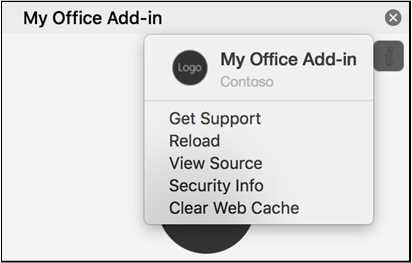
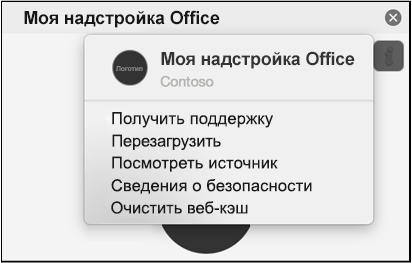
commit translated contents

Changed region(s): [[0.1748, 0.1825, 0.7573, 0.8821], [0.2621, 0.1825, 0.8738, 0.3346], [0.0583, 0.0304, 0.5534, 0.1521]]

diff --git a/docs/reference/overview/word-add-ins-reference-overview.md b/docs/reference/overview/word-add-ins-reference-overview.md
@@ -1,138 +1,46 @@
 ---
 title: Обзор API JavaScript для Word
 description: ''
-ms.date: 06/10/2019
+ms.date: 07/05/2019
 ms.prod: word
 localization_priority: Priority
-ms.openlocfilehash: 92b66b98776c1ad6b2d824af8bf13b01f2807384
-ms.sourcegitcommit: 3f84b2caa73d7fe1eb0d15e32ea4dec459e2ff53
+ms.openlocfilehash: fbc9e8293642d1ab8edf32d568a5dab7ef77a8f0
+ms.sourcegitcommit: c3673cc693fa7070e1b397922bd735ba3f9342f3
 ms.translationtype: HT
 ms.contentlocale: ru-RU
-ms.lasthandoff: 06/12/2019
-ms.locfileid: "34910205"
+ms.lasthandoff: 07/05/2019
+ms.locfileid: "35575627"
 ---
 # <a name="word-javascript-api-overview"></a>Обзор API JavaScript для Word
 
-Word предоставляет большой набор API. Вы можете использовать эти API для создания надстроек, взаимодействующих с контентом и метаданными документов. С помощью этих API вы сможете создавать привлекательные приложения, интегрируемые с Word и расширяющие возможности этой программы. Вы можете импортировать и экспортировать контент, собирать новые документы на основе различных источников данных, выполнять интеграцию с рабочими процессами документов и создавать пользовательские решения для работы с документами.
+Надстройка Word взаимодействует с объектами в Word с помощью API JavaScript для Office, включающего две объектных модели JavaScript.
 
-Для взаимодействия с объектами и метаданными в документе Word вы можете использовать два указанных ниже API JavaScript.
+* **API JavaScript для Word**. Появившийся в Office 2016 [API JavaScript для Word](/javascript/api/word) предоставляет строго типизированные объекты, с помощью которых можно получать доступ к объектам и метаданным в документе Word. 
 
-- API JavaScript для Word: впервые появился в Office 2016.
-- [API JavaScript для Office](../javascript-api-for-office.md) (Office.js): впервые появился в Office 2013.
+* **Общие API**. Появившиеся в Office 2013 [общие API](/javascript/api/office) можно использовать для доступа к таким компонентам, как пользовательский интерфейс, диалоговые окна и параметры клиентов, общие для нескольких типов приложений Office.
 
-## <a name="word-javascript-api"></a>API JavaScript для Word
+В этом разделе рассматривается API JavaScript для Word, используемый для разработки большинства функций в надстройках и предназначенный для Word в Интернете, Word 2016 или более поздних версий. Сведения об общем API см. в статье [API JavaScript для Office](../javascript-api-for-office.md). 
 
-API JavaScript для Word загружается с помощью файла Office.js. Этот API изменяет способ взаимодействия с объектами, например с документами и абзацами. Вместо набора отдельных асинхронных API для получения и обновления каждого из этих объектов новый API JavaScript для Word предоставляет прокси-объекты JavaScript, которые соответствуют реальным объектам, выполняемым в Word. Вы можете напрямую взаимодействовать с этими прокси-объектами, синхронно считывая и записывая их свойства, а также вызывая синхронные методы для операций над ними. Эти взаимодействия с прокси-объектами не сразу реализуются в выполняющихся сценариях. Метод **context.sync** синхронизирует состояние запущенного JavaScript и реальных объектов в Office, выполняя поставленные в очередь инструкции и получая свойства загруженных объектов Word для их использования в сценарии.
+## <a name="learn-programming-concepts"></a>Сведения о концепциях, связанных с программированием
 
-## <a name="javascript-api-for-office"></a>API JavaScript для Office
+Сведения о важных концепциях программирования см. в статье [Основные концепции программирования с помощью API JavaScript для Word](../../word/word-add-ins-core-concepts.md).
+ 
+## <a name="learn-about-api-capabilities"></a>Сведения о возможностях API
 
-Файл Office.js можно получить из указанных ниже расположений.
+Используйте другие статьи в этом разделе, чтобы узнать, как [получить весь документ из надстройки](../../word/get-the-whole-document-from-an-add-in-for-word.md), [воспользоваться параметрами поиска, чтобы найти текст в надстройке Word,](../../word/search-option-guidance.md) и т. д. Полный список доступных статей см. в оглавлении.
 
-- https://appsforoffice.microsoft.com/lib/1/hosted/office.js. Используйте этот ресурс для рабочих надстроек.
-- https://appsforoffice.microsoft.com/lib/beta/hosted/office.js. Используйте этот ресурс при испытаниях предварительных версий функций.
+Чтобы получить практический опыт доступа к объектам в Word с помощью API JavaScript для Word, выполните инструкции из [руководства по надстройкам Word](../../tutorials/word-tutorial.md). 
 
-Если вы используете [Visual Studio](https://www.visualstudio.com/products/free-developer-offers-vs), то, чтобы получить шаблоны проектов, включающие файл Office.js, вы можете скачать [Office Developer Tools](https://www.visualstudio.com/features/office-tools-vs.aspx).  Кроме того, [чтобы получить файл Office.js, вы можете воспользоваться NuGet](https://www.nuget.org/packages/Microsoft.Office.js/).
+Дополнительные сведения об объектной модели API JavaScript для Word см. в [справочной документации по API JavaScript для Word](/javascript/api/word).
 
-Если вы используете TypeScript и у вас есть npm, то вы можете получить определения TypeScript, выполнив в интерфейсе командной строки следующую команду: `typings install office-js --ambient`.
+## <a name="try-out-code-samples-in-script-lab"></a>Опробуйте примеры кода в Script Lab
 
-## <a name="running-word-add-ins"></a>Запуск надстроек Word
-
-Чтобы запустить надстройку, воспользуйтесь обработчиком событий Office.initialize. Дополнительные сведения об инициализации надстроек см. в статье [Общие сведения об API](/office/dev/add-ins/develop/understanding-the-javascript-api-for-office).
-
-Надстройки для Word 2016 или более поздней версии выполняются передачей функции в метод **Word.run()**. Функции, передаваемой в метод **run**, обязательно должен быть присвоен контекстный аргумент. Этот [контекстный объект](/javascript/api/word/word.requestcontext) отличается от контекстного объекта, получаемого из объекта Office, но он также используется для взаимодействия со средой выполнения Word. Контекстный объект предоставляет доступ к объектной модели API JavaScript для Word. В приведенном ниже примере показано, как инициализировать и выполнить надстройку Word с помощью метода **Word.run()**.
-
-```js
-(function () {
-    "use strict";
-
-    // The initialize event handler must be run on each page to initialize Office JS.
-    // You can add optional custom initialization code that will run after OfficeJS
-    // has initialized.
-    Office.initialize = function (reason) {
-        // The reason object tells how the add-in was initialized. The values can be:
-        // inserted - the add-in was inserted to an open document.
-        // documentOpened - the add-in was already inserted in to the document and the document was opened.
-
-        // Checks for the DOM to load using the jQuery ready function.
-        $(document).ready(function () {
-            // Set your optional initialization code.
-            // You can also load saved settings from the Office object.
-        });
-    };
-
-    // Run a batch operation against the Word JavaScript API object model.
-    // Use the context argument to get access to the Word document.
-    Word.run(function (context) {
-
-        // Create a proxy object for the document.
-        var thisDocument = context.document;
-        // ...
-    })
-})();
-```
-
-### <a name="synchronizing-word-documents-with-word-javascript-api-proxy-objects"></a>Синхронизация документов Word с помощью прокси-объектов API JavaScript для Word
-
-Объектная модель API JavaScript для Word нестрого связана с объектами в Word. Объекты API JavaScript для Word представляют собой прокси-объекты для объектов в документе Word. Действия, выполняемые над прокси-объектами, не будут реализованы в Word, пока не будет синхронизировано состояние документа. И наоборот, состояние документа Word не будет реализовано в прокси-объектах, пока оно не будет синхронизировано. Чтобы синхронизировать состояние документа, выполните метод **context.sync()**. В примере ниже показано, как создать прокси-объект основного текста и помещенную в очередь команду для загрузки свойства текста в прокси-объекте основного текста и как использовать метод **context.sync()** для синхронизации основного текста документа Word с прокси-объектом основного текста.
-
-```js
-// Run a batch operation against the Word object model.
-Word.run(function (context) {
-
-    // Create a proxy object for the document body.
-    // The body object hasn't been set with any property values.
-    var body = context.document.body;
-
-    // Queue a command to load the text property for the proxy document body object.
-    context.load(body, 'text');
-
-    // Synchronize the document state by executing the queued commands,
-    // and return a promise to indicate task completion.
-    return context.sync().then(function () {
-        console.log("Body contents: " + body.text);
-    });
-})
-```
-
-### <a name="executing-a-batch-of-commands"></a>Выполнение пакета команд
-
-У прокси-объектов Word есть методы для доступа к объектной модели и ее обновления. Эти методы выполняются последовательно в том порядке, в котором они были поставлены в очередь в пакете. При вызове метода context.sync() выполняются все команды, помещенные в очередь в пакете.
-
-В примере ниже показано, как работает очередь команд. При вызове метода **context.sync()** в Word выполняется команда загрузки основного текста. Затем выполняется команда вставки текста в основной текст в Word. Результаты выполнения команд возвращаются в прокси-объект основного текста. Значение свойства **body.text** в API JavaScript для Word представляет собой значение основного текста документа Word <u>перед тем, как</u> текст был вставлен в документ Word.
-
-```js
-// Run a batch operation against the Word JavaScript API.
-Word.run(function (context) {
-
-    // Create a proxy object for the document body.
-    var body = context.document.body;
-
-    // Queue a command to load the text property of the proxy body object.
-    context.load(body, 'text');
-
-    // Queue a command to insert text into the end of the Word document body.
-    body.insertText('This is text inserted after loading the body.text property',
-                    Word.InsertLocation.end);
-
-    // Synchronize the document state by executing the queued commands,
-    // and return a promise to indicate task completion.
-    return context.sync().then(function () {
-        console.log("Body contents: " + body.text);
-    });
-})
-```
-
-## <a name="word-javascript-api-requirement-sets"></a>Наборы обязательных элементов API JavaScript для Word
-
-Наборы требований — это именованные группы элементов API. Надстройки Office с помощью наборов обязательных элементов, указанных в манифесте, или проверки в среде выполнения определяют, поддерживает ли ведущее приложение Office необходимые API. Подробнее о наборах обязательных элементов API JavaScript для Word см. в статье [Наборы требований API JavaScript для Word](../requirement-sets/word-api-requirement-sets.md).
-
-## <a name="word-javascript-api-reference"></a>Справочные материалы по API JavaScript для Word
-
-Подробнее об API JavaScript для Word см. в [справочной документации по API JavaScript для Word](/javascript/api/word).
+Используйте [Script Lab](../../overview/explore-with-script-lab.md), чтобы быстро начать работу с коллекцией встроенных примеров, демонстрирующих выполнение задач с помощью API. Вы можете выполнять примеры в Script Lab, чтобы сразу увидеть результат в области задач или документе, изучать примеры, чтобы понять принципы действия API, и даже использовать примеры для создания собственных надстроек.
 
 ## <a name="see-also"></a>См. также
 
-- [Обзор надстроек Word](/office/dev/add-ins/word/word-add-ins-programming-overview)
-- [Обзор платформы надстроек Office](/office/dev/add-ins/overview/office-add-ins)
-- [Примеры надстроек Word на сайте GitHub](https://github.com/OfficeDev?utf8=%E2%9C%93&q=Word)
+- [Документация по надстройкам Word](../../word/index.md)
+- [Обзор надстроек Word](../../word/word-add-ins-programming-overview.md)
+- [Справочник по API JavaScript для Word](/javascript/api/word)
+- [Доступность ведущих приложений и платформ для надстроек Office](../../overview/office-add-in-availability.md)
 - [Открытые спецификации API](../openspec/openspec.md)

diff --git a/docs/reference/overview/excel-add-ins-reference-overview.md b/docs/reference/overview/excel-add-ins-reference-overview.md
@@ -1,64 +1,50 @@
 ---
 title: Обзор API JavaScript для Excel
 description: ''
-ms.date: 06/10/2019
+ms.date: 07/05/2019
 ms.prod: excel
 localization_priority: Priority
-ms.openlocfilehash: aa9574a93252c0011b211c39e37cc013beb64432
-ms.sourcegitcommit: 3f84b2caa73d7fe1eb0d15e32ea4dec459e2ff53
+ms.openlocfilehash: e6064bf7e7dce6931079fc2d3eb262533da7edf3
+ms.sourcegitcommit: c3673cc693fa7070e1b397922bd735ba3f9342f3
 ms.translationtype: HT
 ms.contentlocale: ru-RU
-ms.lasthandoff: 06/12/2019
-ms.locfileid: "34910149"
+ms.lasthandoff: 07/05/2019
+ms.locfileid: "35575634"
 ---
 # <a name="excel-javascript-api-overview"></a>Обзор API JavaScript для Excel
 
-Вы можете использовать API JavaScript для Excel, чтобы создавать надстройки для Excel 2016 и более поздних версий. Ниже перечислены объекты Excel высокого уровня, доступные в API. Каждая ссылка на страницу объекта содержит описание свойств, событий и методов, доступных для объекта. Чтобы узнать больше, перейдите по соответствующим ссылкам в меню.
+Надстройка Excel взаимодействует с объектами в Excel с помощью API JavaScript для Office, включающего две объектных модели JavaScript:
 
-Для удобства ниже перечислены некоторые из основных объектов Excel.
+* **API JavaScript для Excel**. Появившийся в Office 2016 [API JavaScript для Excel](/javascript/api/excel) предоставляет строго типизированные объекты, с помощью которых можно получать доступ к листам, диапазонам, таблицам, диаграммам и другим объектам. 
 
-- [Workbook](/javascript/api/excel/excel.workbook) — объект верхнего уровня, содержащий связанные объекты книг, такие как листы, таблицы, диапазоны и т. д. Его также можно использовать для вывода списка связанных ссылок.
+* **Общие API**. Появившиеся в Office 2013 [общие API](/javascript/api/office) можно использовать для доступа к таким компонентам, как пользовательский интерфейс, диалоговые окна и параметры клиентов, общие для нескольких типов приложений Office.
 
-- [Worksheet](/javascript/api/excel/excel.worksheet). Представляет лист в книге.
-  - [WorksheetCollection](/javascript/api/excel/excel.worksheetcollection): коллекция объектов **Worksheet** в книге.
-  - [Worksheet Protection](/javascript/api/excel/excel.worksheetprotection): защита объекта **Worksheet**.
+В этом разделе рассматривается API JavaScript для Excel, используемый для разработки большинства функций в надстройках и предназначенный для Excel в Интернете, Excel 2016 или более поздних версий. Сведения об общем API см. в статье [API JavaScript для Office](../javascript-api-for-office.md). 
 
-- [Range](/javascript/api/excel/excel.range): ячейка, строка, столбец или группа ячеек, содержащая один или несколько смежных блоков ячеек.
-  - [ConditionalFormat](/javascript/api/excel/excel.conditionalformat): объект, определяющий правило и формат, которые применяются к диапазону при соблюдении условия правила.
-  - [DataValidation](/javascript/api/excel/excel.datavalidation): объект, ограничивающий вводимые пользователем данные диапазоном, в основе которого лежит ряд условий.
-  - [RangeSort](/javascript/api/excel/excel.rangesort): объект, управляющий операциями сортировки для диапазона.
+## <a name="learn-programming-concepts"></a>Сведения о концепциях, связанных с программированием
 
-- [Table](/javascript/api/excel/excel.table): коллекция упорядоченных ячеек для упрощения управления данными.
-  - [TableCollection](/javascript/api/excel/excel.tablecollection). Коллекция таблиц в книге или на листе.
-  - [TableColumnCollection](/javascript/api/excel/excel.tablecolumncollection). Коллекция всех столбцов в таблице.
-  - [TableRowCollection](/javascript/api/excel/excel.tablerowcollection): коллекция всех строк в таблице.
-  - [TableSort](/javascript/api/excel/excel.tablesort): объект, управляющий операциями сортировки в таблице.
+Сведения о важных концепциях программирования см. в следующих статьях:
+ 
+- [Основные концепции программирования с помощью API JavaScript для Excel](../../excel/excel-add-ins-core-concepts.md)
 
-- [Chart](/javascript/api/excel/excel.chart): объект диаграммы на листе, который является визуальным представлением базовых данных.
-  - [ChartCollection](/javascript/api/excel/excel.chartcollection): коллекция диаграмм на листе.
+- [Дополнительные концепции программирования с помощью API JavaScript для Excel](../../excel/excel-add-ins-advanced-concepts.md)
 
-- [PivotTable](/javascript/api/excel/excel.pivottable): сводная таблица Excel, которая является иерархической группировкой и представлением данных.
-  - [PivotTableCollection](/javascript/api/excel/excel.pivottablecollection): коллекция сводных таблиц на листе.
+## <a name="learn-about-api-capabilities"></a>Сведения о возможностях API
 
-- [Filter](/javascript/api/excel/excel.filter): объект, управляющий фильтрацией столбца таблицы.
+Используйте другие статьи этого раздела, чтобы узнать о работе с [событиями](../../excel/excel-add-ins-events.md), [диаграммами](../../excel/excel-add-ins-charts.md), [диапазонами](../../excel/excel-add-ins-ranges.md), [таблицами](../../excel/excel-add-ins-tables.md), [листами](../../excel/excel-add-ins-worksheets.md) и т. д. Кроме того, в этом разделе содержится руководство по концепциям API JavaScript для Excel, таким как [совместное редактирование в надстройках Excel](../../excel/co-authoring-in-excel-add-ins.md), [проверка данных](../../excel/excel-add-ins-data-validation.md), [обработка ошибок](../../excel/excel-add-ins-error-handling.md) и [оптимизация производительности](../../excel/performance.md). Полный список доступных статей см. в оглавлении.
 
-- [NamedItem](/javascript/api/excel/excel.nameditem): определенное имя для диапазона ячеек или значения.
-  - [NamedItemCollection](/javascript/api/excel/excel.nameditemcollection). Коллекция объектов **NamedItem** в книге.
+Чтобы получить практический опыт доступа к объектам в Excel с помощью API JavaScript для Excel, выполните инструкции из [руководства по надстройкам Excel](../../tutorials/excel-tutorial.md). 
 
-- [Binding](/javascript/api/excel/excel.binding): абстрактный класс, представляющий привязку к разделу книги.
-  - [BindingCollection](/javascript/api/excel/excel.bindingcollection): коллекция объектов **Binding** в книге.
+Дополнительные сведения об объектной модели API JavaScript для Excel см. в [справочной документации по API JavaScript для Excel](/javascript/api/excel).
 
-## <a name="excel-javascript-api-requirement-sets"></a>Наборы обязательных элементов API JavaScript для Excel
+## <a name="try-out-code-samples-in-script-lab"></a>Опробуйте примеры кода в Script Lab
 
-Наборы обязательных элементов — именованные группы элементов API. Надстройки Office с помощью наборов обязательных элементов, указанных в манифесте, или проверки в среде выполнения определяют, поддерживает ли ведущее приложение Office необходимые API. Дополнительны сведения о наборах обязательных элементов API JavaScript для Excel см. в статье [Наборы требований API JavaScript для Excel](../requirement-sets/excel-api-requirement-sets.md).
-
-## <a name="excel-javascript-api-reference"></a>Справочные материалы по API JavaScript для Excel
-
-Дополнительные сведения об API JavaScript для Excel см. в [справочной документации по API JavaScript для Excel](/javascript/api/excel).
+Используйте [Script Lab](../../overview/explore-with-script-lab.md), чтобы быстро начать работу с коллекцией встроенных примеров, демонстрирующих выполнение задач с помощью API. Вы можете выполнять примеры в Script Lab, чтобы сразу увидеть результат в области задач или листе, изучать примеры, чтобы понять принципы действия API, и даже использовать примеры для создания собственных надстроек.
 
 ## <a name="see-also"></a>См. также
 
-- [Общие сведения о надстройках Excel](/office/dev/add-ins/excel/excel-add-ins-overview)
-- [Обзор платформы надстроек Office](/office/dev/add-ins/overview/office-add-ins)
-- [Примеры надстроек Excel на сайте GitHub](https://github.com/OfficeDev?utf8=%E2%9C%93&q=Excel)
+- [Документация по надстройкам Excel](../../excel/index.md)
+- [Общие сведения о надстройках Excel](../../excel/excel-add-ins-overview.md)
+- [Справочник по API JavaScript для Excel](/javascript/api/excel)
+- [Доступность ведущих приложений и платформ для надстроек Office](../../overview/office-add-in-availability.md)
 - [Открытые спецификации API](../openspec/openspec.md)

diff --git a/docs/testing/debug-add-ins-in-office-online.md b/docs/testing/debug-add-ins-in-office-online.md
@@ -3,12 +3,12 @@ title: Отладка надстроек в Office в Интернете
 description: Сведения о том, как тестировать и отлаживать надстройки в Office в Интернете.
 ms.date: 06/20/2019
 localization_priority: Priority
-ms.openlocfilehash: c8c67be0fe35d6aa4ebe7771fb261101d58d1c3d
-ms.sourcegitcommit: 382e2735a1295da914f2bfc38883e518070cec61
+ms.openlocfilehash: ebc1296c0d6f13d5327f666e72907e016fbe8c6e
+ms.sourcegitcommit: c3673cc693fa7070e1b397922bd735ba3f9342f3
 ms.translationtype: HT
 ms.contentlocale: ru-RU
-ms.lasthandoff: 06/21/2019
-ms.locfileid: "35128407"
+ms.lasthandoff: 07/05/2019
+ms.locfileid: "35575683"
 ---
 # <a name="debug-add-ins-in-office-on-the-web"></a>Отладка надстроек в Office в Интернете
 
@@ -56,7 +56,7 @@ ms.locfileid: "35128407"
 
 - Причиной некоторых отображаемых ошибок JavaScript может быть Office в Интернете.
 
-- В браузере может появиться сообщение об ошибке, связанной с недопустимым сертификатом, которое необходимо обойти. Этот процесс зависит от браузера, и пользовательские интерфейсы различных браузеров, предназначенные для его выполнения, периодически изменяются. Инструкции можно найти в справке браузера или выполнить поиск в Интернете. (Например, выполните поиск по запросу "Предупреждение Edge о недействительном сертификате".) В большинстве браузеров на странице предупреждения содержится ссылка, позволяющая перейти к странице надстройки. Например, в Microsoft Edge есть ссылка "Перейти на веб-страницу (не рекомендуется)". При этом, как правило, вам потребуется переходить по этой ссылке при каждой перезагрузке надстройки. Сведения о более долговечных способах обхода см. в предложенных разделах справки.
+- В браузере может появиться сообщение об ошибке, связанной с недопустимым сертификатом, которое необходимо обойти. Этот процесс зависит от браузера, и пользовательские интерфейсы различных браузеров, предназначенные для его выполнения, периодически изменяются. Инструкции можно найти в справке браузера или выполнить поиск в Интернете. (Например, выполните поиск по запросу "Предупреждение Microsoft Edge о недействительном сертификате".) В большинстве браузеров на странице предупреждения содержится ссылка, позволяющая перейти к странице надстройки. Например, в Microsoft Edge есть ссылка "Перейти на веб-страницу (не рекомендуется)". При этом, как правило, вам потребуется переходить по этой ссылке при каждой перезагрузке надстройки. Сведения о более долговечных способах обхода см. в предложенных разделах справки.
 
 - Если вы задаете точки останова в коде, Office в Интернете может вывести сообщение об ошибке, свидетельствующее о том, что не удается выполнить сохранение.
 

diff --git a/docs/testing/testing-and-troubleshooting.md b/docs/testing/testing-and-troubleshooting.md
@@ -29,14 +29,14 @@ ms.locfileid: "35454876"
 |Ошибка: объект не поддерживает свойство или метод 'defineProperty'|Убедитесь, что Internet Explorer не работает в режиме совместимости. Откройте меню "Сервис" >  **Параметры просмотра в режиме совместимости**.|
 |К сожалению, нам не удалось загрузить приложение, так как ваша версия браузера не поддерживается. Щелкните здесь, чтобы открыть список поддерживаемых версий браузера.|Убедитесь, что браузер поддерживает локальное хранилище HTML5, или сбросьте параметры Internet Explorer. Сведения о поддерживаемых браузерах см. в разделе [Требования к запуску надстроек для Office](../concepts/requirements-for-running-office-add-ins.md).|
 
-## <a name="when-installing-an-add-in-you-see-error-loading-add-in-in-the-status-bar"></a>При установке надстройки в строке состояния появляется сообщение "Ошибка при загрузке надстройки".
+## <a name="when-installing-an-add-in-you-see-error-loading-add-in-in-the-status-bar"></a>При установке надстройки в строке состояния появляется сообщение "Ошибка при загрузке надстройки"
 
 1. Закройте Office.
 2. Убедитесь, что манифест действителен.
 3. Перезапустите надстройку.
 4. Переустановите надстройку.
 
-Также можно отправить нам отзыв: при использовании Excel для Windows или Mac можно отправить отзыв группе расширяемости Office непосредственно из Excel. Для этого выберите **Файл** | **Отзыв** | **Отправить нахмуренный смайлик**. При отправке нахмуренного смайлика будут предоставлены необходимые журналы для понимания описываемой проблемы.
+Также можно отправить нам отзыв: при использовании Excel для Windows или Mac можно отправить отзыв группе расширяемости Office непосредственно из Excel. Для этого выберите **Файл** | **Отзывы и предложения** | **Отправить нахмуренный смайлик**. При отправке нахмуренного смайлика будут предоставлены необходимые журналы для понимания описываемой проблемы.
 
 ## <a name="outlook-add-in-doesnt-work-correctly"></a>Надстройка Outlook работает неправильно
 

diff --git a/docs/onenote/onenote-add-ins-programming-overview.md b/docs/onenote/onenote-add-ins-programming-overview.md
@@ -1,14 +1,14 @@
 ---
 title: Обзор создания кода с помощью API JavaScript для OneNote
 description: ''
-ms.date: 06/20/2019
+ms.date: 07/05/2019
 localization_priority: Priority
-ms.openlocfilehash: 852c68bc9edf370d0eef687fb4869b23d4f59fe4
-ms.sourcegitcommit: 382e2735a1295da914f2bfc38883e518070cec61
+ms.openlocfilehash: 223d7cdf6770d21a16272b9a8602201cec77d111
+ms.sourcegitcommit: c3673cc693fa7070e1b397922bd735ba3f9342f3
 ms.translationtype: HT
 ms.contentlocale: ru-RU
-ms.lasthandoff: 06/21/2019
-ms.locfileid: "35128638"
+ms.lasthandoff: 07/05/2019
+ms.locfileid: "35575662"
 ---
 # <a name="onenote-javascript-api-programming-overview"></a>Обзор создания кода с помощью API JavaScript для OneNote
 
@@ -87,6 +87,10 @@ function getPagesInSection() {
 
 Сведения о поддерживаемых объектах и операциях OneNote см. в [справочнике по API](/office/dev/add-ins/reference/overview/onenote-add-ins-javascript-reference).
 
+#### <a name="onenote-javascript-api-requirement-sets"></a>Наборы обязательных элементов API JavaScript для OneNote
+
+Наборы обязательных элементов — именованные группы элементов API. Надстройки Office с помощью наборов обязательных элементов, указанных в манифесте, или проверки в среде выполнения определяют, поддерживает ли ведущее приложение Office необходимые API. Дополнительные сведения о наборах обязательных элементов API JavaScript для OneNote см. в статье [Наборы обязательных элементов API JavaScript для OneNote](../reference/requirement-sets/onenote-api-requirement-sets.md).
+
 ### <a name="accessing-the-common-api-through-the-document-object"></a>Получение доступа к общему API с помощью объекта *Document*
 
 Для доступа к общему API, например к методам [getSelectedDataAsync](/javascript/api/office/office.document#getselecteddataasync-coerciontype--options--callback-) и [setSelectedDataAsync](/javascript/api/office/office.document#setselecteddataasync-data--options--callback-), используйте объект **Document**. 
@@ -131,6 +135,7 @@ function getSelectionFromPage() {
 
 ## <a name="see-also"></a>См. также
 
+- [Документация по надстройкам OneNote](index.md)
 - [Создание первой надстройки OneNote](../quickstarts/onenote-quickstart.md)
 - [Справочник по API JavaScript для OneNote](/office/dev/add-ins/reference/overview/onenote-add-ins-javascript-reference)
 - [Пример надстройки Rubric Grader](https://github.com/OfficeDev/OneNote-Add-in-Rubric-Grader)

diff --git a/docs/testing/sideload-office-add-ins-for-testing.md b/docs/testing/sideload-office-add-ins-for-testing.md
@@ -3,12 +3,12 @@ title: Загрузка неопубликованных надстроек Offi
 description: Тестирование неопубликованной надстройки Office в Office в Интернете путем ее загрузки
 ms.date: 06/20/2019
 localization_priority: Priority
-ms.openlocfilehash: e382e4de62df28584da2c827433af3102486e057
-ms.sourcegitcommit: 382e2735a1295da914f2bfc38883e518070cec61
+ms.openlocfilehash: 6a61a8bfb4860ac31803c40d8ecea1b550f79368
+ms.sourcegitcommit: c3673cc693fa7070e1b397922bd735ba3f9342f3
 ms.translationtype: HT
 ms.contentlocale: ru-RU
-ms.lasthandoff: 06/21/2019
-ms.locfileid: "35126948"
+ms.lasthandoff: 07/05/2019
+ms.locfileid: "35575606"
 ---
 # <a name="sideload-office-add-ins-in-office-on-the-web-for-testing"></a>Загрузка неопубликованных надстроек Office в Office в Интернете для тестирования
 
@@ -50,7 +50,7 @@ ms.locfileid: "35126948"
 >
 > - Введите **about:flags** в панели поиска Microsoft Edge, чтобы открыть раздел "Параметры разработчика".  Установите флажок **Разрешить замыкание на себя для localhost** и перезапустите Microsoft Edge.
 
->    ![Параметр "Разрешить замыкание на себя для localhost" в Edge с установленным флажком.](../images/allow-localhost-loopback.png)
+>    ![Параметр "Разрешить замыкание на себя для localhost" в Microsoft Edge с установленным флажком.](../images/allow-localhost-loopback.png)
 
 
 ## <a name="sideload-an-office-add-in-in-office-365"></a>Загрузка неопубликованной надстройки Office в Office 365

diff --git a/docs/testing/debug-add-ins-using-f12-developer-tools-on-windows-10.md b/docs/testing/debug-add-ins-using-f12-developer-tools-on-windows-10.md
@@ -42,7 +42,7 @@ ms.locfileid: "35454883"
 
 ## <a name="when-the-add-in-is-running-in-internet-explorer"></a>Если надстройка работает в Internet Explorer
 
-Если надстройка работает в браузере Internet Explorer, для тестирования надстройки можно использовать отладчик в составе средств разработчика F12 в Windows 10. Средства разработчика F12 можно запустить после запуска надстройки. Средства F12 отображаются в отдельном окне и не используют Visual Studio.
+Если надстройка работает в браузере Internet Explorer, для ее тестирования можно использовать отладчик в составе средств разработчика F12 в Windows 10. Средства разработчика F12 можно запустить после запуска надстройки. Средства F12 отображаются в отдельном окне и не используют Visual Studio.
 
 > [!NOTE]
 > Отладчик входит в состав средств разработчика F12 в Internet Explorer и Windows 10, но не включен в предыдущие версии Windows. 

diff --git a/docs/testing/create-a-network-shared-folder-catalog-for-task-pane-and-content-add-ins.md b/docs/testing/create-a-network-shared-folder-catalog-for-task-pane-and-content-add-ins.md
@@ -3,12 +3,12 @@ title: Загрузка неопубликованных надстроек Offi
 description: ''
 ms.date: 06/20/2019
 localization_priority: Priority
-ms.openlocfilehash: acd16bb8a8d08aa6dd05f0f56921e285ee1e2e1f
-ms.sourcegitcommit: 382e2735a1295da914f2bfc38883e518070cec61
+ms.openlocfilehash: 81b931ab7bc88675ae438edf6d0d05ebb040387e
+ms.sourcegitcommit: c3673cc693fa7070e1b397922bd735ba3f9342f3
 ms.translationtype: HT
 ms.contentlocale: ru-RU
-ms.lasthandoff: 06/21/2019
-ms.locfileid: "35127023"
+ms.lasthandoff: 07/05/2019
+ms.locfileid: "35575690"
 ---
 # <a name="sideload-office-add-ins-for-testing"></a>Загрузка неопубликованных надстроек Office для тестирования
 
@@ -82,7 +82,7 @@ ms.locfileid: "35127023"
 
 3. Нажмите **ОБЩАЯ ПАПКА** в верхней части диалогового окна **Надстройки Office**.
 
-4. Выберите имя надстройки и нажмите кнопку **ОК**, чтобы вставить надстройку.
+4. Выберите имя надстройки и нажмите кнопку **Добавить**, чтобы вставить надстройку.
 
 ## <a name="see-also"></a>См. также
 
